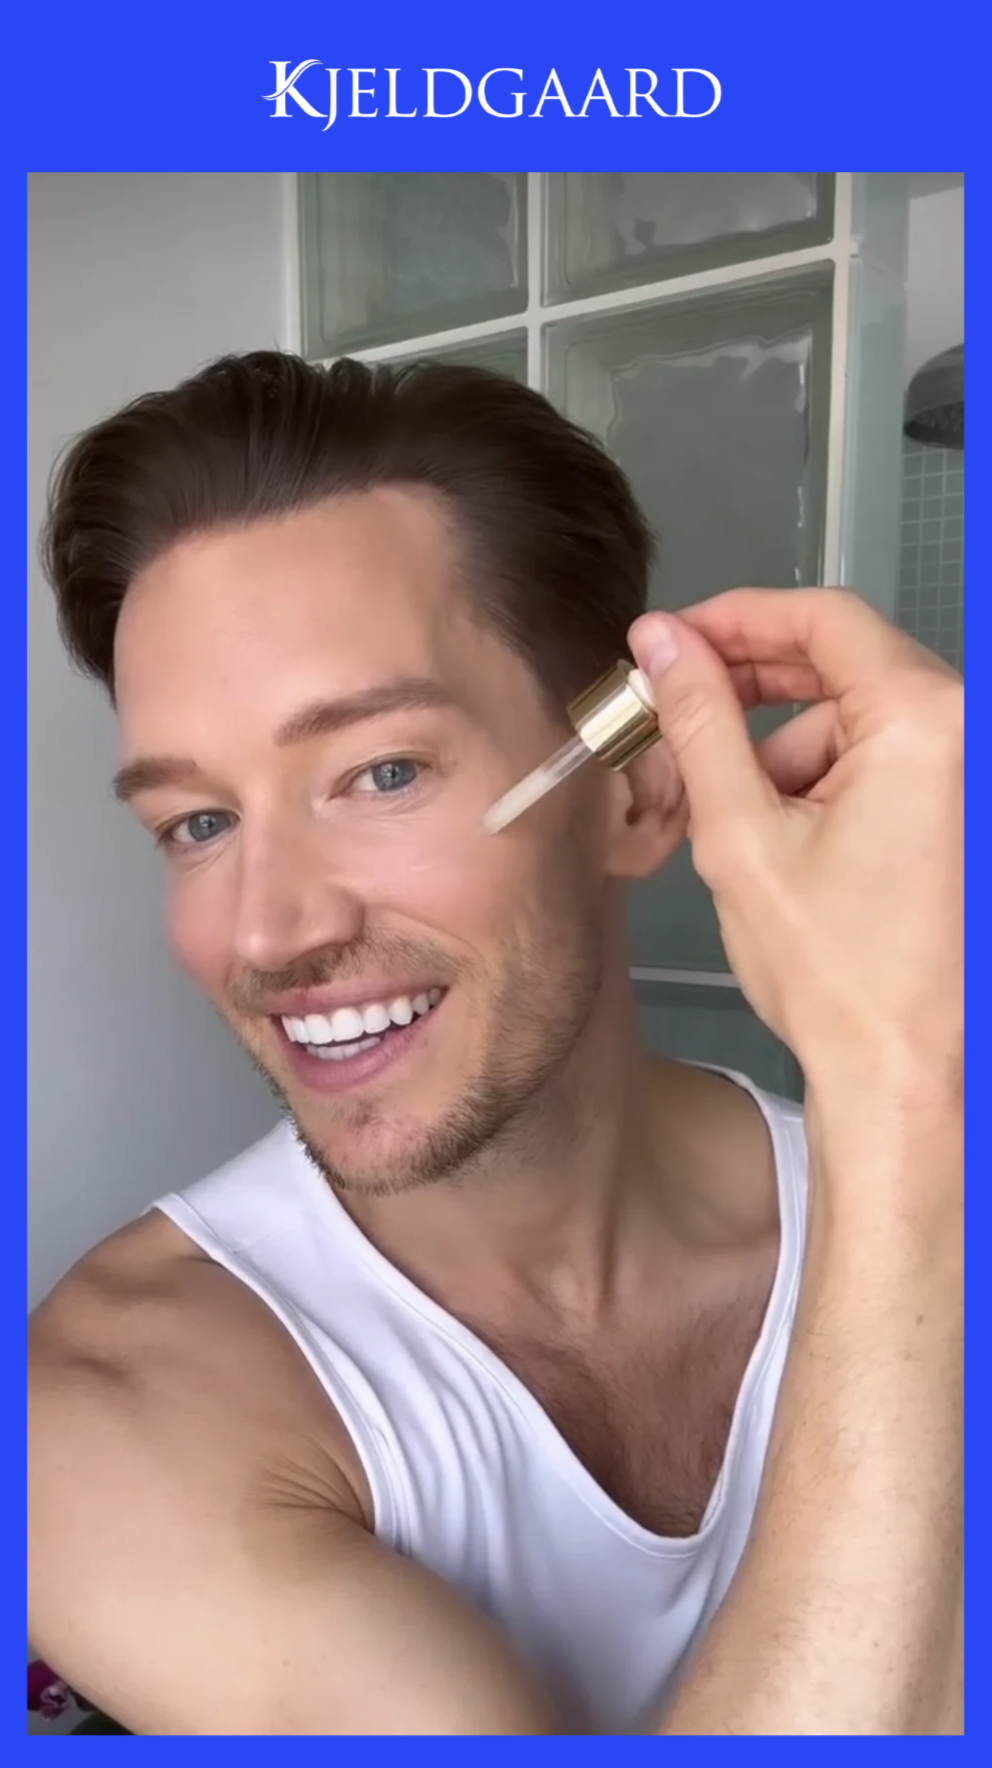
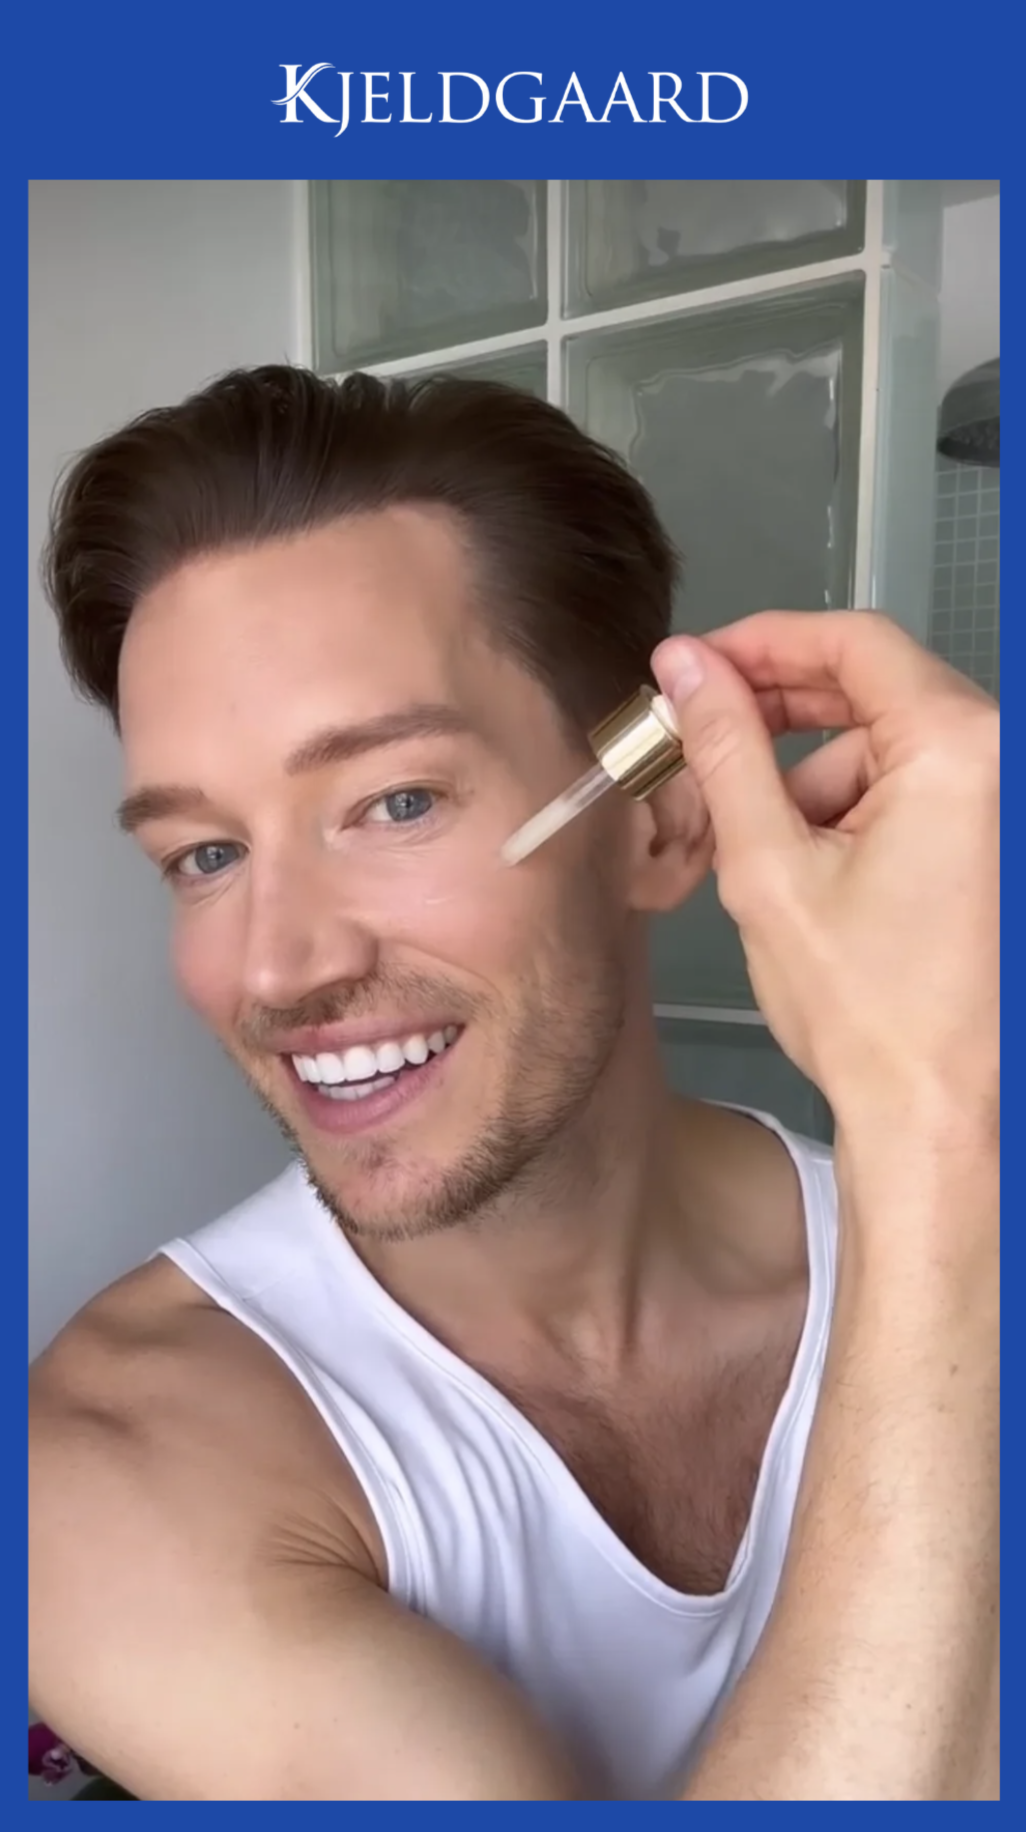
Opdater Morten skabeloner 3, 4, 5, 9 med nye baggrundsbilleder og tekstfarver

diff --git a/lib/templates/morten.ts b/lib/templates/morten.ts
@@ -497,18 +497,18 @@ export const mortenTemplates: MortenTemplate[] = [
   },
   {
     id: "morten_3_9x16", label: "Morten 3 – 9×16",
-    baseImage: path.join(BASES, "morten_base_3_9x16.jpg"),
+    baseImage: path.join(BASES, "morten_base_3_9x16ny3.jpg"),
     outSuffix: "morten", width: 1080, height: 1920,
     render(ctx, canvas, { text }) {
       renderBlockLeftBoxes(ctx, canvas, text, {
         maxSize: 56, minSize: 18, xMargin: 54, rightMargin: 127, padX: 24, padTop: 20, padBottom: 12,
-        yBottom: 1540, yTopMax: 1200, boxColor: rgb(254,209,30), textColor: rgb(0,0,0),
+        yBottom: 1540, yTopMax: 1200, boxColor: rgb(255,40,40), textColor: rgb(255,255,255),
       });
     },
   },
   {
     id: "morten_4_9x16", label: "Morten 4 – 9×16",
-    baseImage: path.join(BASES, "morten_base_4_9x16.jpg"),
+    baseImage: path.join(BASES, "morten_base_4_9x16ny2.jpg"),
     outSuffix: "morten", width: 1080, height: 1920,
     render(ctx, canvas, { text }) {
       const X_MARGIN = 55, LINE_GAP = 24, TOP_GAP = 30;
@@ -521,7 +521,7 @@ export const mortenTemplates: MortenTemplate[] = [
       });
       const font = fontStr(FONT.bold700, size);
       let y = YELLOW_TOP + TOP_GAP;
-      ctx.textAlign = "left"; ctx.textBaseline = "alphabetic"; ctx.font = font; ctx.fillStyle = rgb(0,0,0);
+      ctx.textAlign = "left"; ctx.textBaseline = "alphabetic"; ctx.font = font; ctx.fillStyle = rgb(255,255,255);
       for (let i = 0; i < lines.length; i++) {
         ctx.fillText(lines[i], X_MARGIN, y + ascents[i]);
         y += heights[i] + LINE_GAP;
@@ -535,7 +535,7 @@ export const mortenTemplates: MortenTemplate[] = [
     render(ctx, canvas, { text }) {
       renderBlockLeftBoxes(ctx, canvas, text, {
         maxSize: 44, minSize: 18, xMargin: 54, rightMargin: 54, padX: 22, padTop: 12, padBottom: 7,
-        yBottom: 1540, yTopMax: 1200, boxColor: rgb(42,71,246), textColor: rgb(255,255,255),
+        yBottom: 1540, yTopMax: 1200, boxColor: rgb(0,74,173), textColor: rgb(255,255,255),
       });
     },
   },
@@ -593,7 +593,7 @@ export const mortenTemplates: MortenTemplate[] = [
   },
   {
     id: "morten_9_9x16", label: "Morten 9 – 9×16",
-    baseImage: path.join(BASES, "morten_base_9_9x16.jpg"),
+    baseImage: path.join(BASES, "morten_base_9_9x16ny2.jpg"),
     outSuffix: "morten", width: 1080, height: 1920,
     render(ctx, canvas, { text }) {
       const X_MARGIN = 45, RIGHT_MARGIN = 45, LINE_GAP = 18;
@@ -614,7 +614,7 @@ export const mortenTemplates: MortenTemplate[] = [
       const leftover = YELLOW_BOTTOM - YELLOW_TOP - totalH;
       let y = Math.max(YELLOW_TOP + TOP_PAD, YELLOW_TOP + leftover * 0.3);
       ctx.textAlign = "left"; ctx.textBaseline = "alphabetic";
-      ctx.font = fontStr(FONT.bold700, size); ctx.fillStyle = rgb(0,0,0);
+      ctx.font = fontStr(FONT.bold700, size); ctx.fillStyle = rgb(255,255,255);
       for (let i = 0; i < lines.length; i++) {
         ctx.fillText(lines[i], X_MARGIN, y + ascents[i]); y += heights[i] + LINE_GAP;
       }
@@ -657,18 +657,18 @@ export const mortenTemplates: MortenTemplate[] = [
   },
   {
     id: "morten_3_1080x1080", label: "Morten 3 – 1080×1080",
-    baseImage: path.join(BASES, "morten_base_3_1080x1080.jpg"),
+    baseImage: path.join(BASES, "morten_base_3_1080x1080ny3.jpg"),
     outSuffix: "morten", width: 1080, height: 1080,
     render(ctx, canvas, { text }) {
       renderBlockLeftBoxes(ctx, canvas, text, {
         maxSize: 32, minSize: 16, xMargin: 54, rightMargin: 127, padX: 24, padTop: 12, padBottom: 7,
-        yBottom: 972, yTopMax: 656, boxColor: rgb(254,209,30), textColor: rgb(0,0,0),
+        yBottom: 972, yTopMax: 656, boxColor: rgb(255,40,40), textColor: rgb(255,255,255),
       });
     },
   },
   {
     id: "morten_4_1080x1080", label: "Morten 4 – 1080×1080",
-    baseImage: path.join(BASES, "morten_base_4_1080x1080.jpg"),
+    baseImage: path.join(BASES, "morten_base_4_1080x1080ny4.jpg"),
     outSuffix: "morten", width: 1080, height: 1080,
     render(ctx, canvas, { text }) {
       const X_MARGIN = 50, LINE_GAP = 24, TOP_GAP = 8, BOTTOM_GAP = 8;
@@ -683,7 +683,7 @@ export const mortenTemplates: MortenTemplate[] = [
       const totalH = heights.reduce((a, h) => a + h, 0) + LINE_GAP * (heights.length - 1);
       const leftover = YELLOW_BOTTOM - YELLOW_TOP - totalH;
       let y = YELLOW_TOP + leftover * 0.58;
-      ctx.textAlign = "left"; ctx.textBaseline = "alphabetic"; ctx.font = font; ctx.fillStyle = rgb(0,0,0);
+      ctx.textAlign = "left"; ctx.textBaseline = "alphabetic"; ctx.font = font; ctx.fillStyle = rgb(255,255,255);
       for (let i = 0; i < lines.length; i++) {
         ctx.fillText(lines[i], X_MARGIN, y + ascents[i]); y += heights[i] + LINE_GAP;
       }
@@ -691,12 +691,12 @@ export const mortenTemplates: MortenTemplate[] = [
   },
   {
     id: "morten_5_1080x1080", label: "Morten 5 – 1080×1080",
-    baseImage: path.join(BASES, "morten_base_5_1080x1080ny.jpg"),
+    baseImage: path.join(BASES, "morten_base_5_1018x1018ny.jpg"),
     outSuffix: "morten", width: 1080, height: 1080,
     render(ctx, canvas, { text }) {
       renderBlockLeftBoxes(ctx, canvas, text, {
         maxSize: 32, minSize: 16, xMargin: 49, rightMargin: 49, padX: 22, padTop: 12, padBottom: 7,
-        yBottom: 992, yTopMax: 656, boxColor: rgb(42,71,246), textColor: rgb(255,255,255),
+        yBottom: 992, yTopMax: 656, boxColor: rgb(0,74,173), textColor: rgb(255,255,255),
       });
     },
   },
@@ -754,7 +754,7 @@ export const mortenTemplates: MortenTemplate[] = [
   },
   {
     id: "morten_9_1080x1080", label: "Morten 9 – 1080×1080",
-    baseImage: path.join(BASES, "morten_base_9_1080x1080.jpg"),
+    baseImage: path.join(BASES, "morten_base_9_1080x1080ny2.jpg"),
     outSuffix: "morten", width: 1080, height: 1080,
     render(ctx, canvas, { text }) {
       const X_MARGIN = 42, RIGHT_MARGIN = 42, LINE_GAP = 18;
@@ -774,7 +774,7 @@ export const mortenTemplates: MortenTemplate[] = [
       const leftover = YELLOW_BOTTOM - YELLOW_TOP - totalH;
       let y = YELLOW_TOP + leftover * 0.5;
       ctx.textAlign = "left"; ctx.textBaseline = "alphabetic";
-      ctx.font = fontStr(FONT.bold700, size); ctx.fillStyle = rgb(0,0,0);
+      ctx.font = fontStr(FONT.bold700, size); ctx.fillStyle = rgb(255,255,255);
       for (let i = 0; i < lines.length; i++) {
         ctx.fillText(lines[i], X_MARGIN, y + ascents[i]); y += heights[i] + LINE_GAP;
       }
